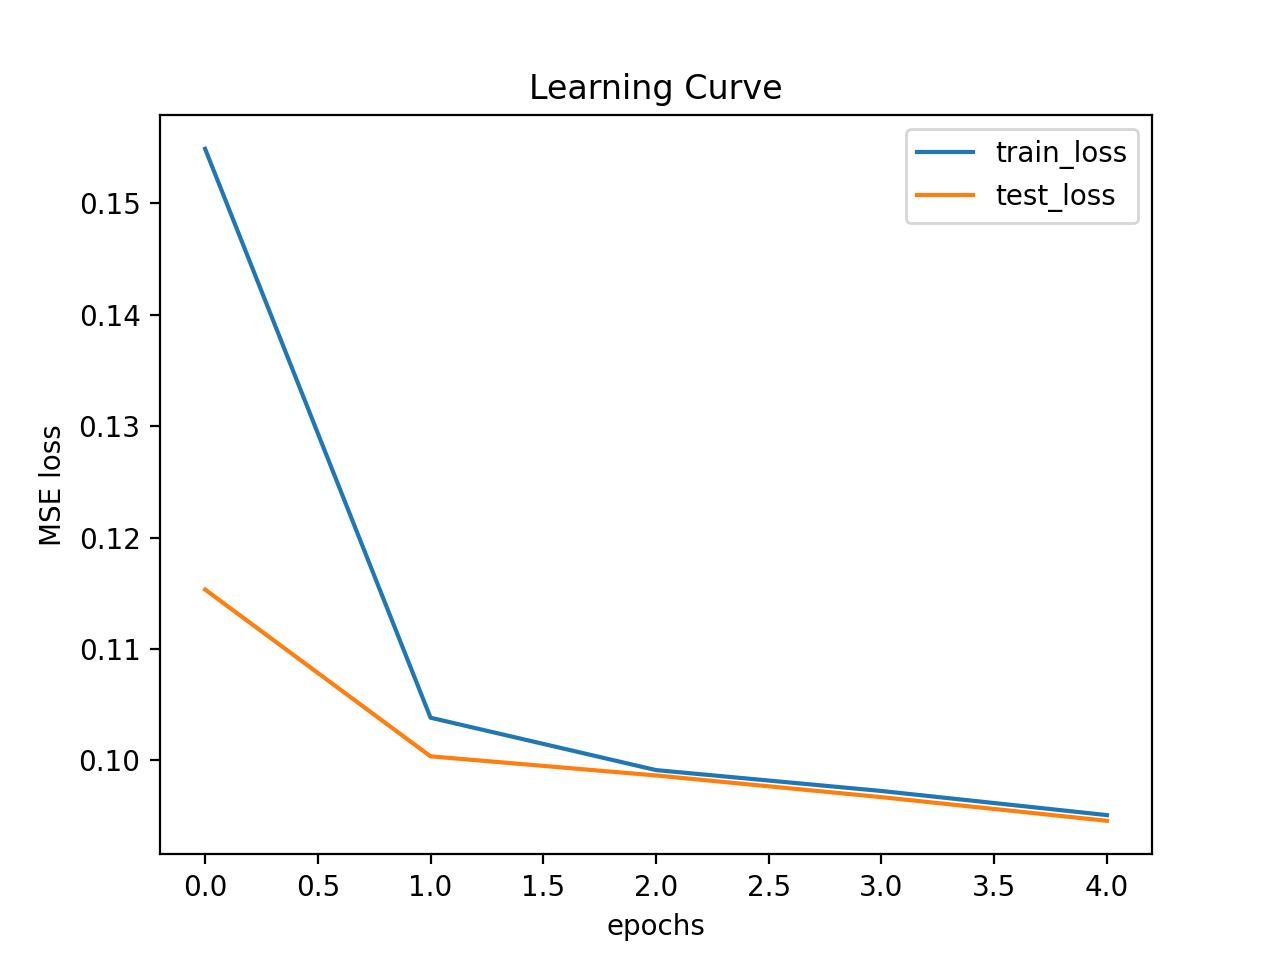
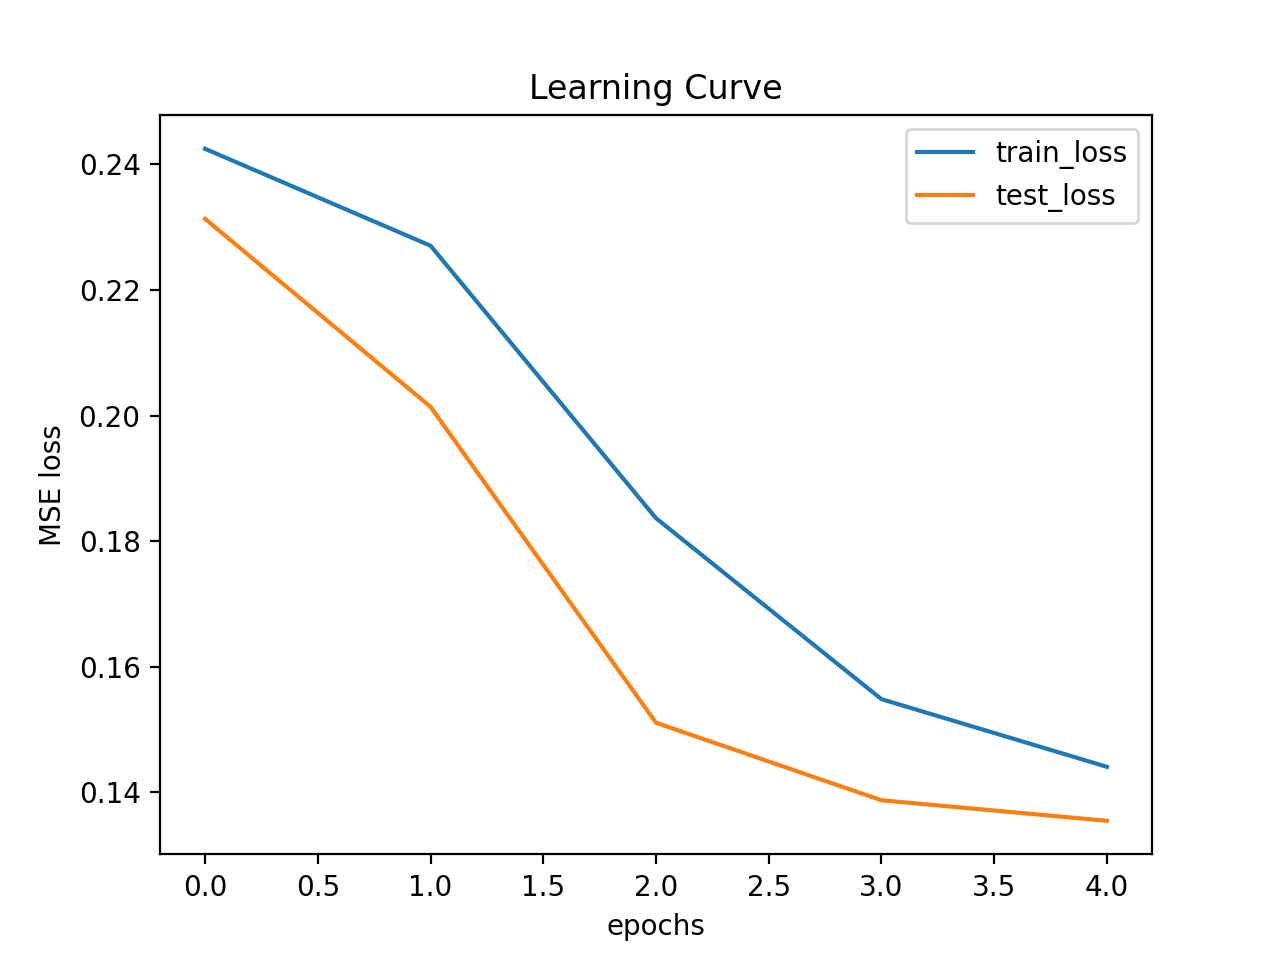
pipeline ready, but didn't work

diff --git a/dvc_plots/index.html b/dvc_plots/index.html
@@ -22,15 +22,36 @@
         "filename": "reports/learning_curve.csv",
         "rev": "workspace",
         "step": 0,
-        "test_loss": "0.11533048562705517",
-        "train_loss": "0.15490779008856104"
+        "test_loss": "0.23130813241004944",
+        "train_loss": "0.24245915205582327"
     },
     {
         "filename": "reports/learning_curve.csv",
         "rev": "workspace",
         "step": 1,
-        "test_loss": "0.10035209357738495",
-        "train_loss": "0.10382184967456475"
+        "test_loss": "0.20138239860534668",
+        "train_loss": "0.22702902037164438"
+    },
+    {
+        "filename": "reports/learning_curve.csv",
+        "rev": "workspace",
+        "step": 2,
+        "test_loss": "0.15108996629714966",
+        "train_loss": "0.1836526510508164"
+    },
+    {
+        "filename": "reports/learning_curve.csv",
+        "rev": "workspace",
+        "step": 3,
+        "test_loss": "0.13874676823616028",
+        "train_loss": "0.15484080236891043"
+    },
+    {
+        "filename": "reports/learning_curve.csv",
+        "rev": "workspace",
+        "step": 4,
+        "test_loss": "0.13547740876674652",
+        "train_loss": "0.1440711850705354"
     }
 ]
     },

diff --git a/dvc_pressure_map_gen.py b/dvc_pressure_map_gen.py
@@ -1,0 +1,54 @@
+import sensor_lib as sl
+import tensorflow as tf
+import numpy as np
+import sys
+from os.path import join as jn
+import yaml
+
+with open('params.yaml') as conf_file:
+    config = yaml.safe_load(conf_file)
+geo = config['env']['sen_geometry']
+x = geo['x_len']
+y = geo['y_len']
+n_pic = config['dataset']['n_samples']
+n_gaus = config['env']['pressure_profile']['n_gauses']
+size_kof = config['env']['pressure_profile']['size_kof']
+
+np.random.seed(config['random_seed'])
+seeds = np.random.randint(0, 2**31, size=3)
+
+vec_mat = tf.constant(sl.get_vec_mat(x, y), dtype=tf.float32)
+vec_mat = tf.reshape(vec_mat, [-1, 2])
+gaus_data = sl.gen_rand_cof(n_gaus * n_pic, x, y, size_kof,
+                            seed=seeds[0])    # use random inside
+gaus_data = tf.reshape(gaus_data, [n_pic, n_gaus, 5])
+with open(config['env']['pressure_profile']['g_param_path'], 'wb+') as f:
+    np.save(f, gaus_data)
+
+bs_gpu = config['gengaus']['batch_size']
+bs_save = config['gengaus']['save_bath_size']
+dataset = tf.data.Dataset.from_tensor_slices(gaus_data)
+batches = dataset.batch(bs_gpu, drop_remainder=False)
+
+i = 0
+n = int(bs_save / bs_gpu)
+pictures = []
+for batch in batches:
+    picture = sl.generate_pictures(batch, vec_mat)
+    pictures.append(picture)
+    print('generated batch:', i)
+    i += 1
+    if i % n == 0:
+        pictures = tf.concat(pictures, axis=0)
+        pictures = tf.reshape(pictures, [-1, x, y])
+        with open(jn(config['dataset']['pic_path'],
+                     str(i//n - 1) + '.npy'), 'wb+') as f:
+            np.save(f, pictures)
+        pictures = []
+
+if len(pictures) > 0:
+    pictures = tf.concat(pictures, axis=0)
+    pictures = tf.reshape(pictures, [-1, x, y])
+    with open(jn(config['dataset']['pic_path'],
+                 str(i // n) + '.npy'), 'wb+') as f:
+        np.save(f, pictures)
